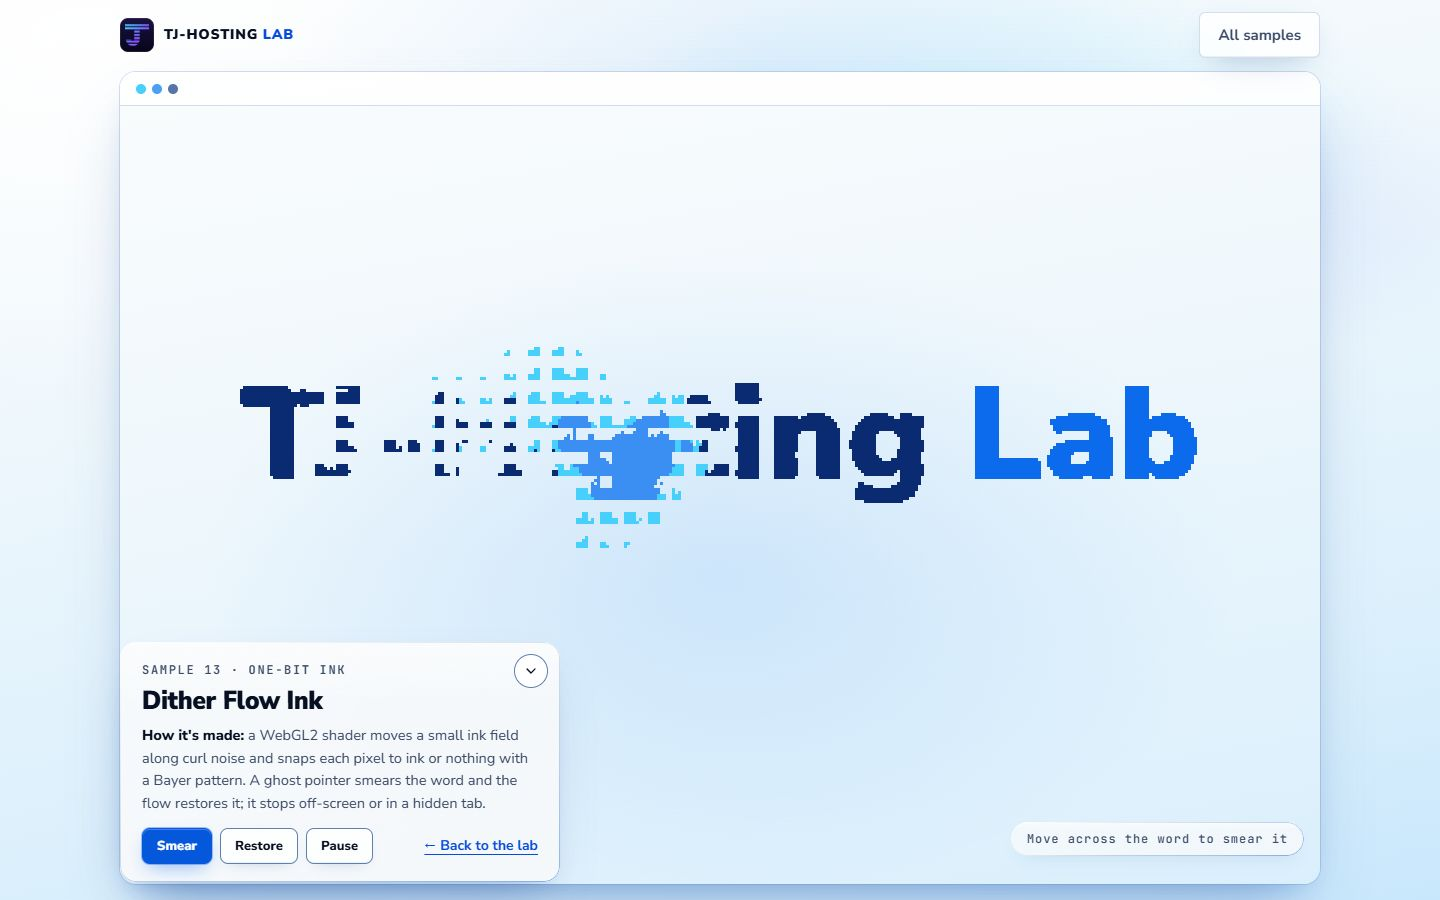
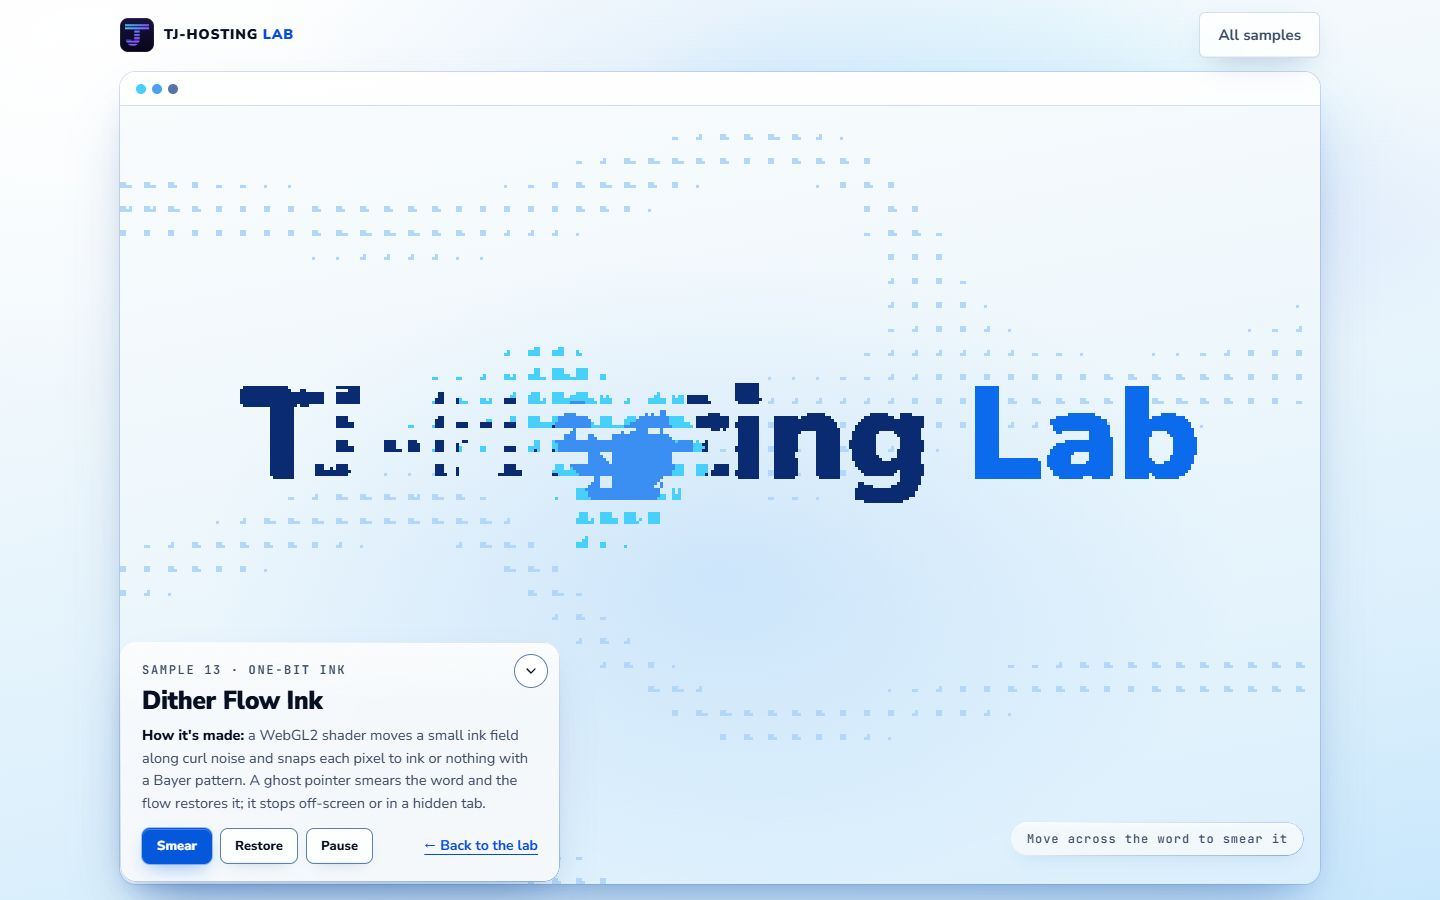
improve(lab-05): S10 faint dither currents across the whole window
The render shader adds warped streaks of sparse pale-azure dither that drift across the screen, so the window lives around the word; one still frame under reduced motion. Re-gated: PASS, median 16.7 ms.

Changed region(s): [[0.4375, 0.4667, 0.4688, 0.4978], [0.375, 0.4667, 0.4062, 0.4978]]

diff --git a/samples/dither-flow-ink/piece.js b/samples/dither-flow-ink/piece.js
@@ -63,6 +63,7 @@ const INK_A = hexRGB('#0a2a72'); // the letters of "TJ-Hosting"
 const INK_B = hexRGB('#0c6bed'); // the letters of "Lab"
 const SMOKE = hexRGB('#3b8ff2'); // dense ink in the air
 const WISP = hexRGB('#46d0fb'); // its thin edge, DS v9's cyan light
+const AMB = hexRGB('#b4d6f8'); // the faint ambient currents across the window, a pale azure
 
 const STEP = 1 / 60; // the sim runs at 60 steps a second, whatever the display does
 const MAX_SPLATS = 12;
@@ -243,9 +244,16 @@ precision highp sampler2D;
 uniform sampler2D uSim;
 uniform sampler2D uMask;
 uniform vec2 uRes;
-uniform float uCell, uLod;
-uniform vec3 uInkA, uInkB, uSmoke, uWisp;
+uniform float uCell, uLod, uTime;
+uniform vec3 uInkA, uInkB, uSmoke, uWisp, uAmb;
 in vec2 vUv; out vec4 outC;
+
+float h21(vec2 p){ p = fract(p*vec2(234.34,435.345)); p += dot(p,p+34.23); return fract(p.x*p.y); }
+float vn(vec2 p){
+  vec2 i = floor(p), f = fract(p);
+  f = f*f*(3.-2.*f);
+  return mix(mix(h21(i), h21(i+vec2(1,0)), f.x), mix(h21(i+vec2(0,1)), h21(i+vec2(1,1)), f.x), f.y);
+}
 
 float bayer8(ivec2 p){
   int x = p.x & 7, y = p.y & 7, v = 0;
@@ -263,9 +271,15 @@ void main(){
   vec4 mk = textureLod(uMask, vec2(cuv.x, 1.-cuv.y), uLod);
   float cov = clamp((max(mk.r, mk.g) - 0.5) * 3. + 0.5, 0., 1.);
   float letter = cov * (1. - clamp(f.g, 0., 1.));       // a worn letter thins out as a dither
+  // ambient currents: faint warped streaks of sparse dither drifting across the whole window, so it lives at rest
+  vec2 q = cuv * vec2(uRes.x / uRes.y, 1.);
+  float warp = vn(q * 2.2 + vec2(uTime * 0.05, 0.)) * 2.4;
+  float band = 0.5 + 0.5 * sin((q.y * 5. + warp - uTime * 0.12) * 3.14159);
+  float amb = smoothstep(0.84, 1., band) * (0.05 + 0.07 * vn(q * 6. - uTime * 0.03));
   vec4 c = vec4(0.);
   if (letter > t)  c = vec4(mk.g > mk.r ? uInkB : uInkA, 1.);
   else if (f.r > t) c = vec4(f.r > 0.45 ? uSmoke : uWisp, 1.);
+  else if (amb > t) c = vec4(uAmb, 1.);
   outC = c;
 }`;
 
@@ -493,6 +507,8 @@ function createField(cv) {
 		gl.uniform3f(u(renderProg, 'uInkB'), ...INK_B);
 		gl.uniform3f(u(renderProg, 'uSmoke'), ...SMOKE);
 		gl.uniform3f(u(renderProg, 'uWisp'), ...WISP);
+		gl.uniform3f(u(renderProg, 'uAmb'), ...AMB);
+		gl.uniform1f(u(renderProg, 'uTime'), F.time);
 		gl.drawArrays(gl.TRIANGLES, 0, 3);
 	};
 

diff --git a/TASKS-lab-05.md b/TASKS-lab-05.md
@@ -150,7 +150,7 @@ None yet.
 - [P5] S44: idle clocks show cyan hands at an angle that compete with the digits; dim or park the hands of clocks that are not part of a digit so the time reads at a glance. **Checked 06:05Z, no change**: in the gated still the idle clocks already show one short faint hand at 7:30 (opacity 0.26) and the digits read at a glance; only the cyan hubs show on every face, which is the design.
 - [P5] C28 (skill chips card) looked like capsule pills; queued C28b (rounded glass tags).
 - [P5] S47: the tick fires on every centre crossing (about 40 a second) at an untuned level; thin it (e.g. one voice per crossing of the middle bob group, or a rate cap) and set a gentle level. **Done 06:05Z**: one voice per frame (the middle of the bobs that crossed), at most one every 0.12 s, louder when a third of the row crosses together; peaks 0.032 / 0.07 and master 0.55 (were 0.045 / 0.09 / 0.7). Probe: 7.0 ticks a second, no errors; re-gated.
-- [P5] S10: the word sits in a mostly empty screen; add faint ambient dithered currents across the field so the whole window lives.
+- [P5] S10: the word sits in a mostly empty screen; add faint ambient dithered currents across the field so the whole window lives. **Done 06:10Z**: the render shader adds faint warped streaks of sparse pale-azure dither (at most 12% of a band's cells) that drift across the whole window; still under reduced motion. Re-gated 16.7 ms.
 - [P5] S46: the drawn trail is thin and faint on the sky; bolder royal trail with a brighter pen tip. **Done 06:01Z**: trail 4.2 px (3.4 on phones, was 2.8 / 2.3), its faint end at 0.24 alpha (was 0.1), a cyan halo under the pen tip; re-gated 16.7 ms.
 - [P5] S26: the night theme never shows unless someone pulls; an idle pull every 20 s or so would show the twist at a glance. **Done 05:48Z**: first self-pull after 9 s, then every 20 s; a grab or pull restarts the count. Probe: night at about 10 s, day again at about 30 s, no errors; re-gated 16.7 ms.
 - [P5] S36: at rest the beams are often between runs; keep at least two in flight so the idle hub always shows light moving. **Done 05:53Z**: the source's ease-out parked each light under its tile for most of its run and the six beams ran in phase; now a gentle ease-in-out, staggered first runs, and at least four beams on their way at once (probe: 3-4 lights in each of four stills over 6 s). Re-gated 16.7 ms.

diff --git a/evidence/lab-05/samples/dither-flow-ink/check.md b/evidence/lab-05/samples/dither-flow-ink/check.md
@@ -1,6 +1,6 @@
 # check-sample: dither-flow-ink — PASS
 
-2026-10-28T04:23:26.885Z · Chromium WebGL: ANGLE (AMD, AMD Radeon (TM) Graphics (0x000015E7) Direct3D11 vs_5_0 ps_5_0, D3D11) · Firefox: not run (browserType.launch: spawn UNKNOWN)
+2026-10-28T06:09:52.882Z · Chromium WebGL: ANGLE (AMD, AMD Radeon (TM) Graphics (0x000015E7) Direct3D11 vs_5_0 ps_5_0, D3D11) · Firefox: not run (browserType.launch: spawn UNKNOWN)
 
 ## Notes
 - loads 8 local files: samples/dither-flow-ink/index.html, css/glass.css, css/lab.css, css/sample.css, samples/dither-flow-ink/piece.css, js/early.js, samples/dither-flow-ink/piece.js, js/lab.js
